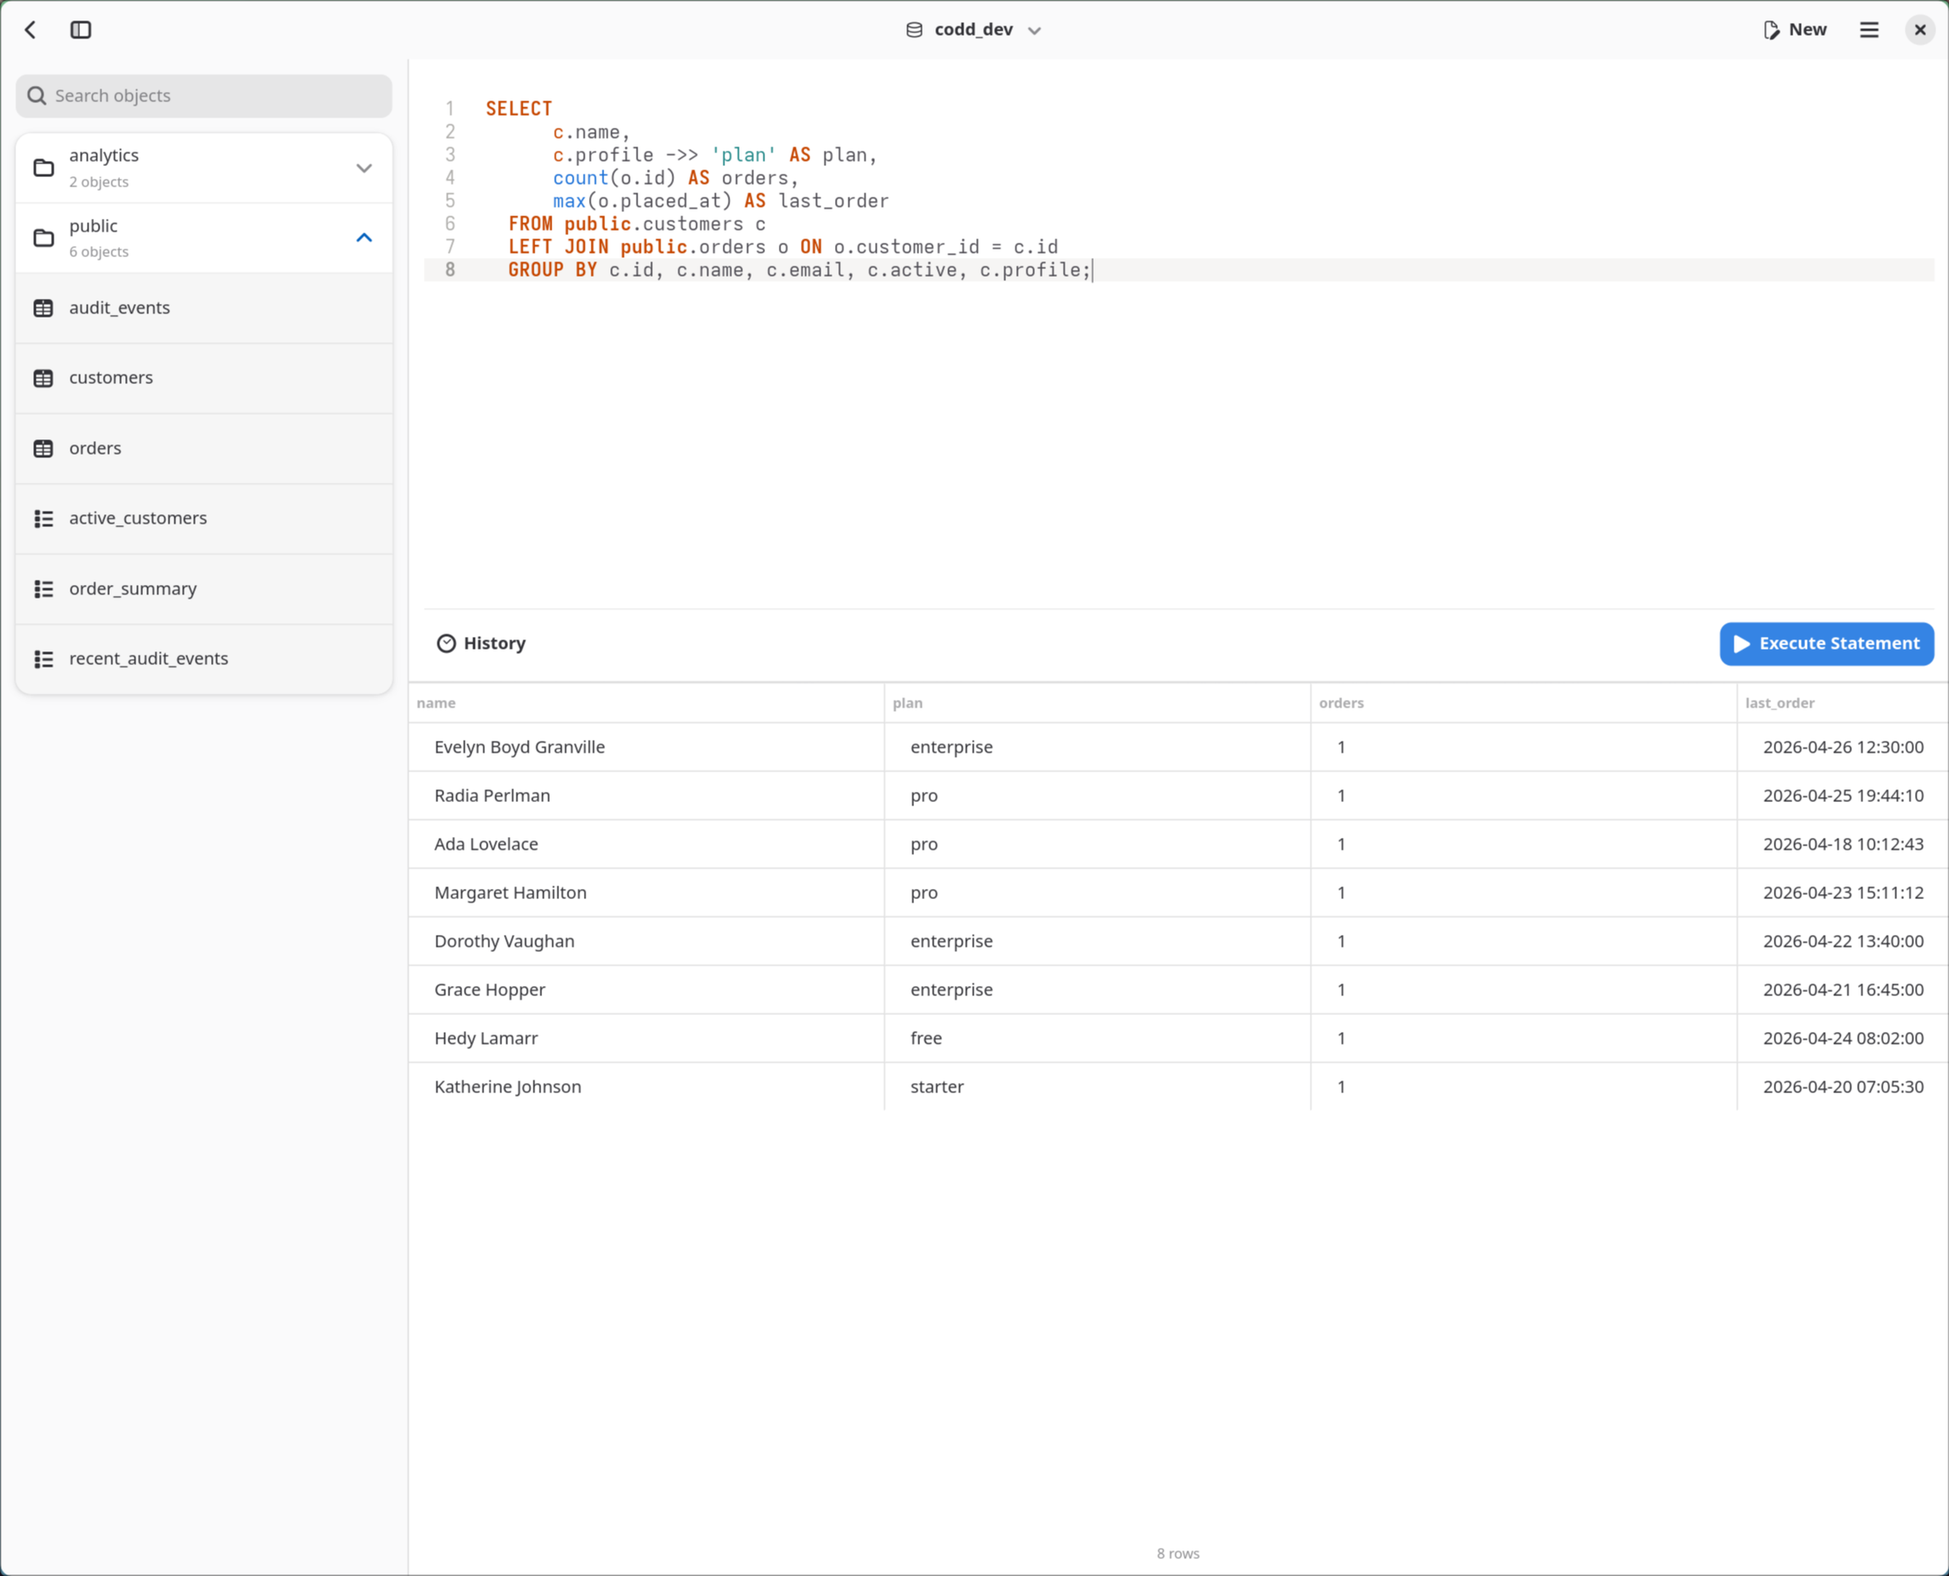
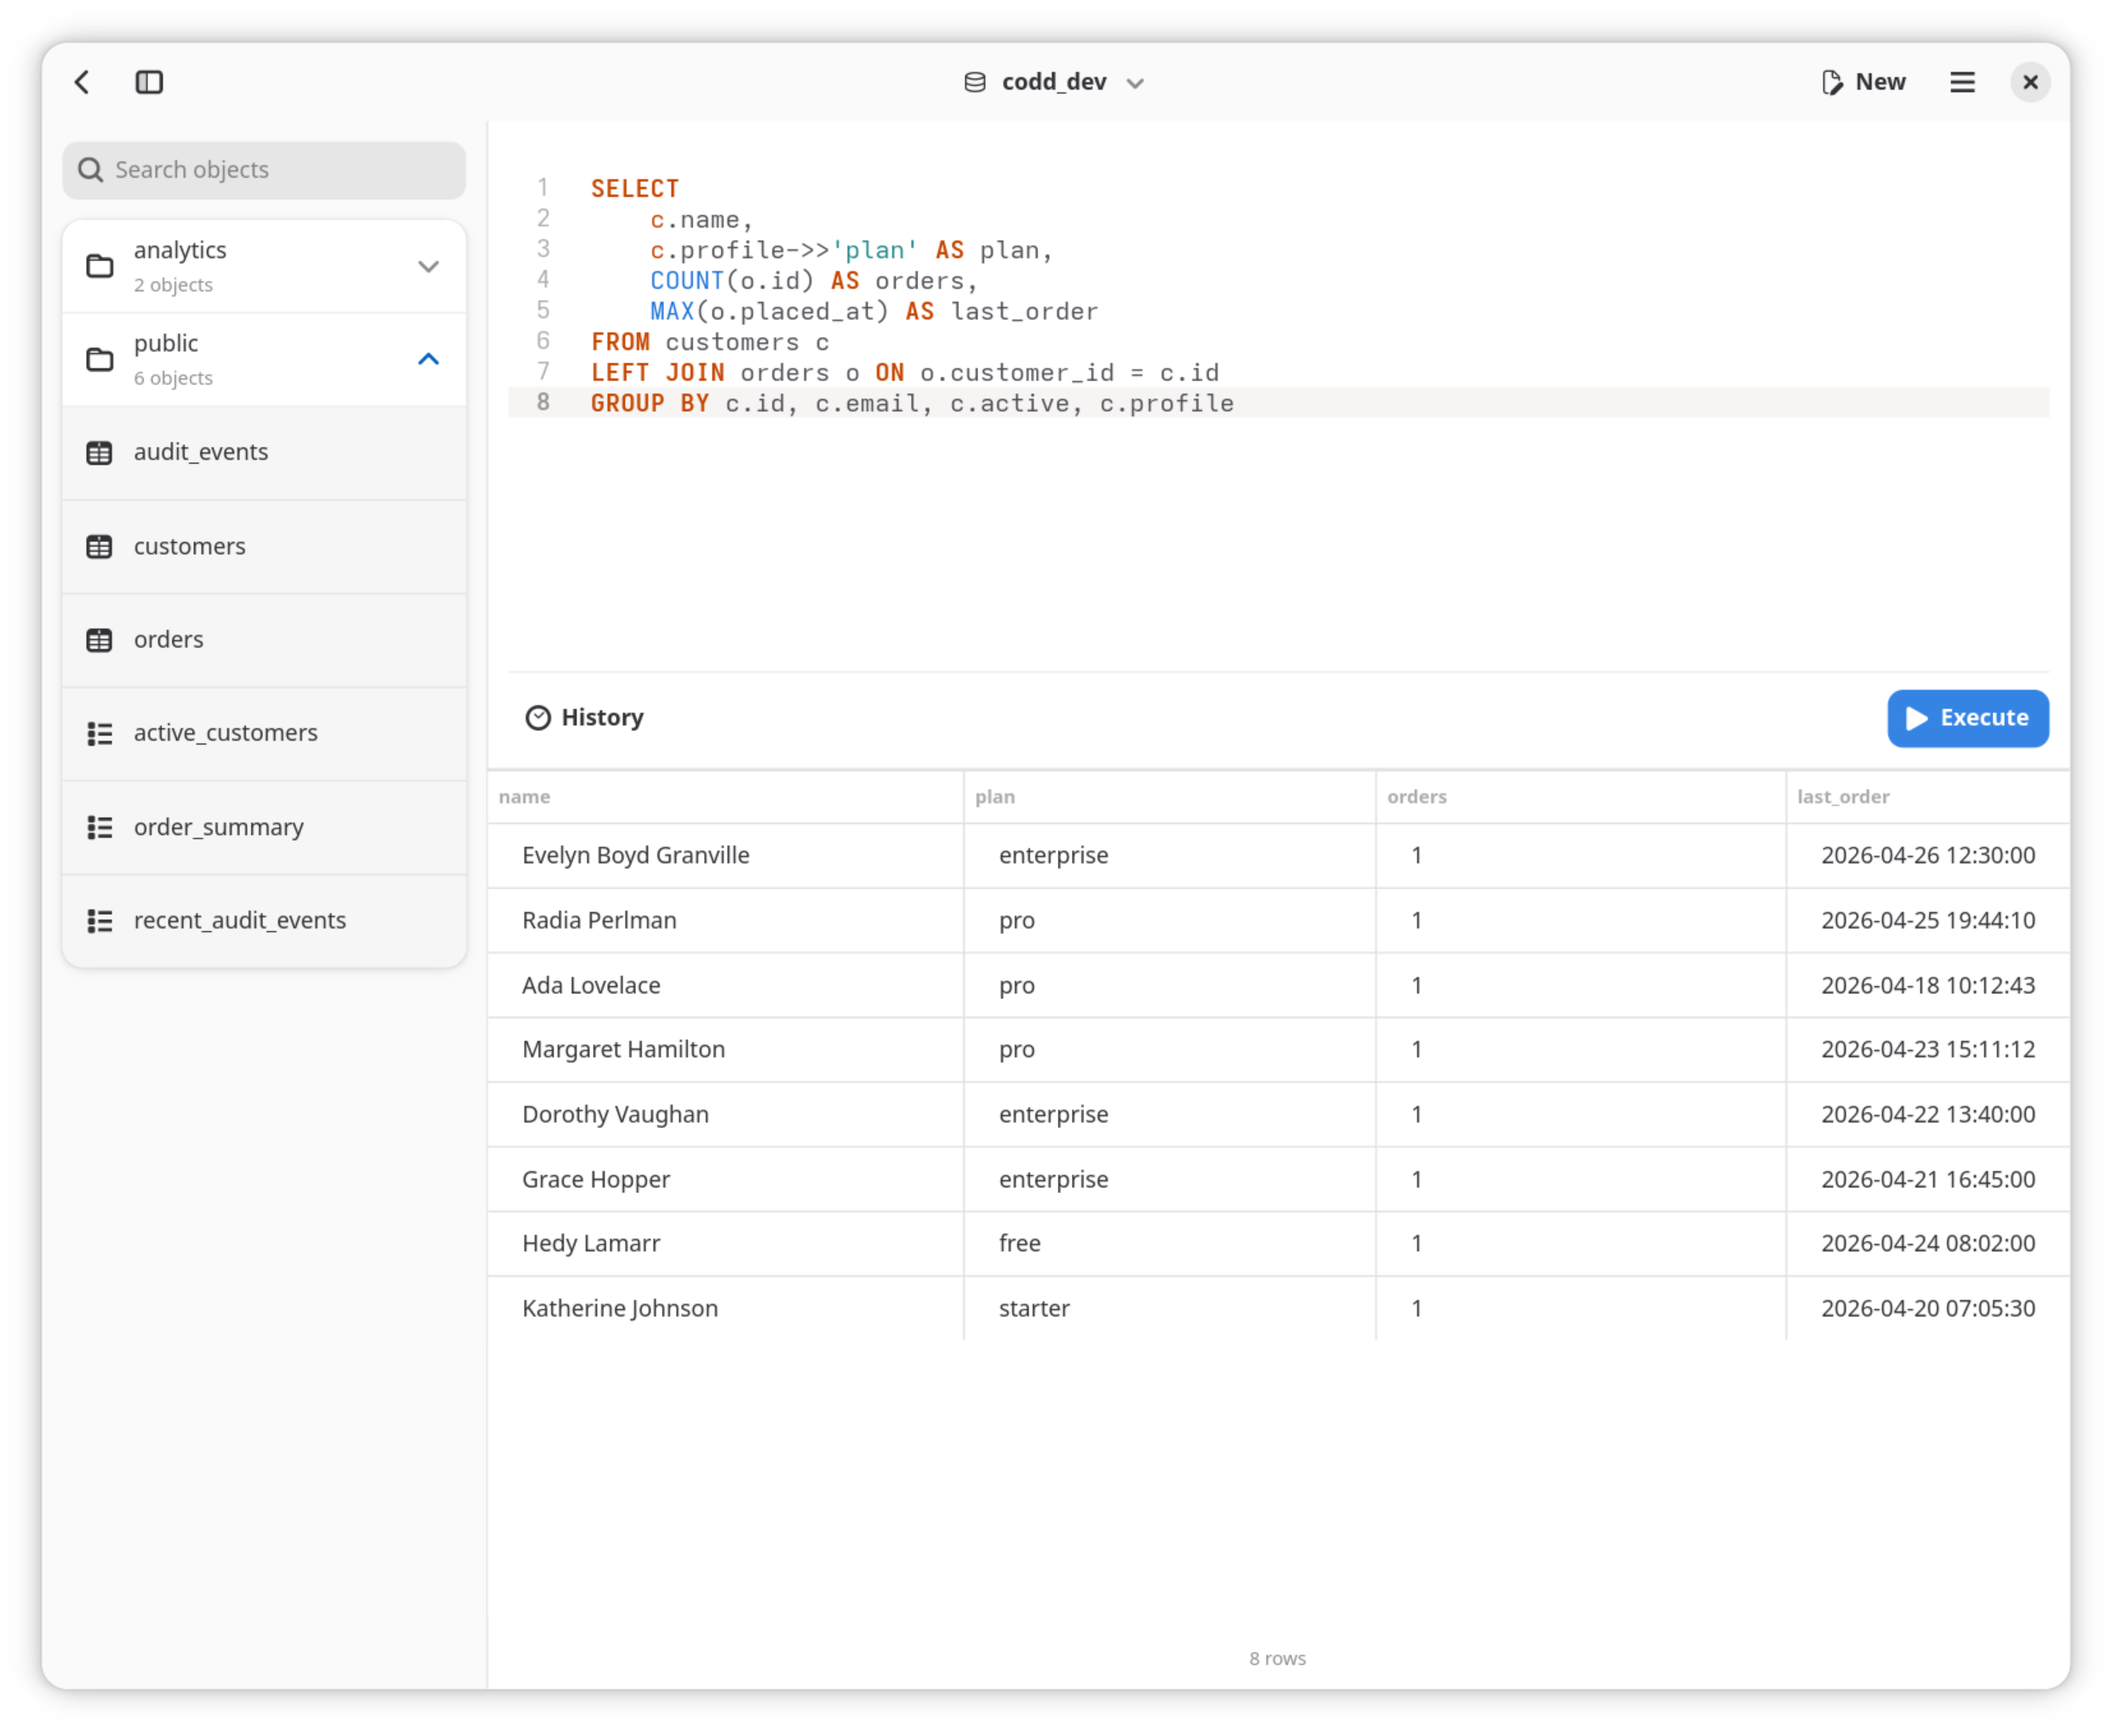
updated screenshots following flathub guidelines

diff --git a/README.md b/README.md
@@ -2,7 +2,7 @@
 
 Codd is a lightweight native PostgreSQL client for GNOME, built with Rust, Relm4, GTK4, libadwaita, GtkSourceView and sqlx. It is named after Edgar F. Codd, the computer scientist who introduced the relational model for database management.
 
-![Codd table browser](images/screenshot-table-browser.png)
+![Codd query editor](images/screenshot-query.png)
 
 [![Get it on Flathub](https://flathub.org/api/badge?locale=en)](https://flathub.org/apps/io.github.anil_e.Codd)
 
